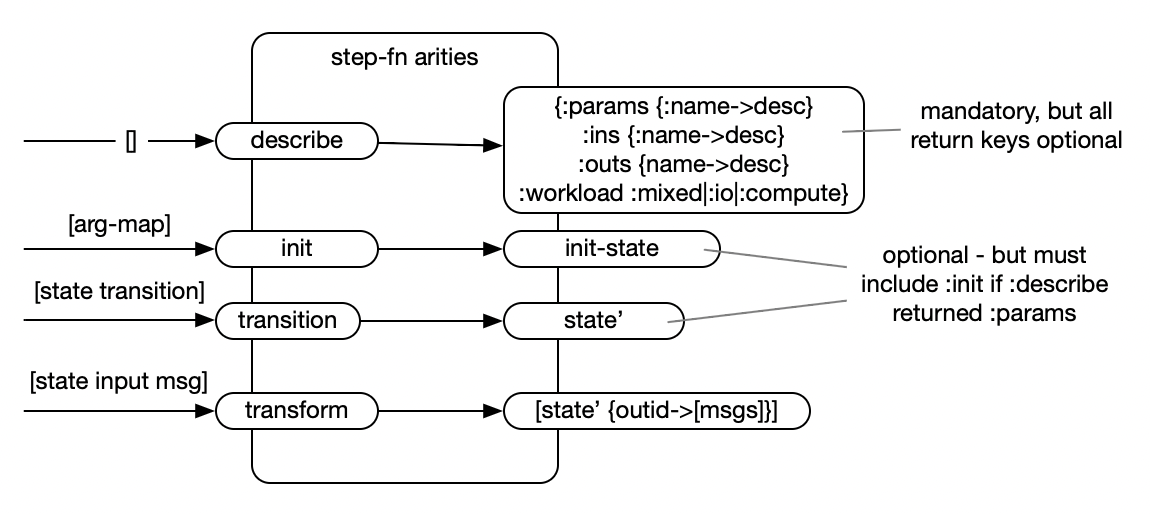
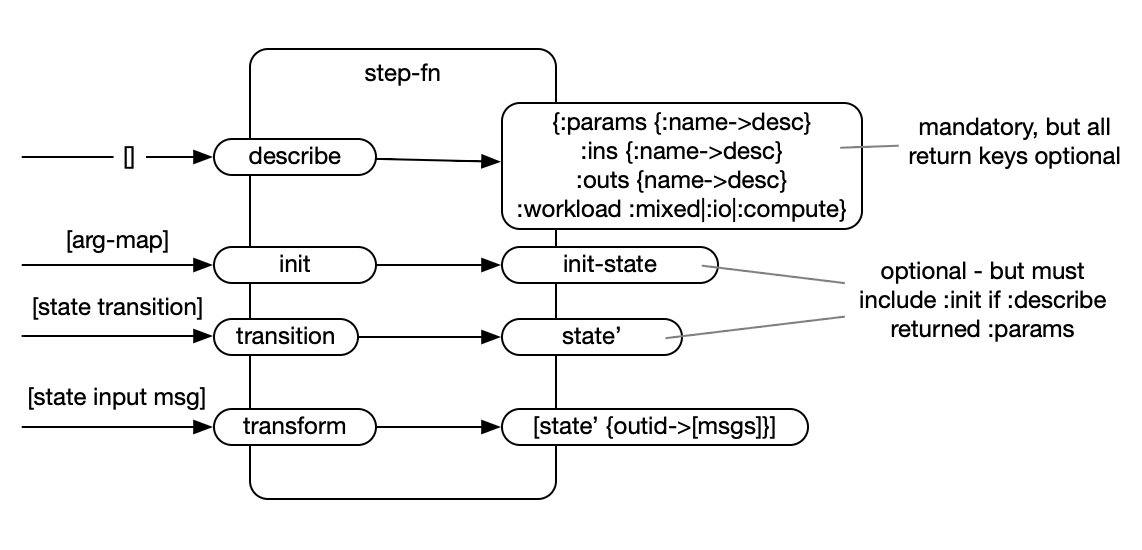
doc updates

Changed region(s): [[0.0, 0.0623, 0.9807, 0.965], [0.6743, 0.4981, 0.7356, 0.5292]]

diff --git a/doc/flow-guide.md b/doc/flow-guide.md
@@ -4,7 +4,7 @@
 
 The [flow](https://clojure.github.io/core.async/flow.html) library enables a strict separation application logic from the deployment concerns of topology, execution, communication, lifecycle, monitoring and error handling.
 
-## Step fns and processes
+## Step fns and process launchers
 
 You provide logic to flow in the form of _step-fns_, which are wrapped into running processes, executing in a loop. Flow manages the life cycle of the process and handles incoming and outgoing messages by putting or taking them on channels. Step-fns do not access channels directly or hold state, making them easy to test in isolation and reuse.
 
@@ -12,7 +12,7 @@ Step functions have four arities:
 
 <a href="https://github.com/clojure/core.async/blob/master/doc/img/step-fn-arities.png?raw=true"><img src="https://github.com/clojure/core.async/blob/master/doc/img/step-fn-arities.png?raw=true" alt="step-fn arities" width="700"/></a>
 
-### describe (0 arity)
+### describe:  (step-fn) -> descriptor
 
 The describe arity must return a static description of the step-fn's :params, :ins, and :outs. Each of these is a map of name (a keyword) to docstring.
 
@@ -26,9 +26,21 @@ For example, the describe arity might return this description for a simple step-
 
 The names used for input and output channels should be distinct (no overlap).
 
-### init (1 arity)
+### init: (step-fn arg-map) -> init-state
 
 The init arity is called once by the process to takes a set of args from the flow def (corresponding to the params returned from the describe arity) and returns the init state of the process.
+
+### transition: (step-fn state transition) -> state'
+
+The transition arity is called any time the flow or process undergoes a lifecycle transition (::flow/start, ::flow/stop, ::flow/pause, ::flow/resume). The description arity takes the current state and returns an updated state to be used for subsequent calls.
+
+The step-fn should use the transition arity to coordinate the creation, pausing, and shutdown of external resources in a process.
+
+### transform: (step-fn state input msg) -> [state' {out-id [msgs]}]
+
+The transform arity is called in a loop by the process for every message received on an input channel and returns a new state and a map of output cids to messages to return. The process will take care of sending these messages to the output channels. Output can be sent to none, any or all of the :outsenumerated, and/or an input named by a [pid inid] tuple (e.g. for reply-to), and/or to the ::flow/report output. A step need not output at all (output or msgs can be empyt/nil), however an output _message_ may never be nil (per core.async channels).
+
+The step-fn may throw excepitons from any arity and they will be handled by flow. Exceptions thrown from the transition or transform arities, the exception will be logged on the flow's :error-chan.
 
 ### Process state
 
@@ -40,34 +52,22 @@ The process state is a map. It can contain any keys needed by the step-fn transi
 
 `::flow/input-filter`, a predicate of cid, can be returned in the state from any arity to indicate a filter on the process input channel read set. For example, a step-fn that is waiting for a response from multiple inputs might remove the channels that have already responded from the read-set until responses have been received from all.
 
-### transition (2 arity)
-
-The transition arity is called any time the flow or process undergoes a lifecycle transition (::flow/start, ::flow/stop, ::flow/pause, ::flow/resume). The description arity takes the current state and returns an updated state to be used for subsequent calls.
-
-The step-fn should use the transition arity to coordinate the creation, pausing, and shutdown of external resources in a process.
-
-### transform (3 arity)
-
-The transform arity is called in a loop by the process for every message received on an input channel and returns a new state and a map of output cids to messages to return. The process will take care of sending these messages to the output channels. Output can be sent to none, any or all of the :outsenumerated, and/or an input named by a [pid inid] tuple (e.g. for reply-to), and/or to the ::flow/report output. A step need not output at all (output or msgs can be empyt/nil), however an output _message_ may never be nil (per core.async channels).
-
-The step-fn may throw excepitons from any arity and they will be handled by flow. Exceptions thrown from the transition or transform arities, the exception will be logged on the flow's :error-chan.
-
 ### step-fn helpers
 
 Some additional helpers exist to create step-fns from other forms:
 
-* `lift*->step` - given a fn f taking one arg and returning a collection of non-nil values, creates a step-fn as needed by a process, with one input and one output (named :in and :out), and no state
+* `lift*->step` - given a fn f taking one arg and returning a collection of non-nil values, creates a step-fn as needed by a process launcher, with one input and one output (named :in and :out), and no state
 * `lift1->step` - like `lift*->step` but for functions that return a single value (when `nil`, yield no output)
 * `map->step` - given a map with keys `:describe`, `:init`, `:transition`, `:transform` corresponding to the arities above, create a step-fn.
 
-### Creating a process
+### Creating a process launcher
 
-Processes can be created using the [process](https://clojure.github.io/core.async/clojure.core.async.flow.html#var-process) function, which takes a step-fn, and an option map with keys:
+Process launchers can be created using the [process](https://clojure.github.io/core.async/clojure.core.async.flow.html#var-process) function, which takes a step-fn, and an option map with keys:
 
 * `::workload` - one of `:mixed`, `:io` or `:compute`
 * `:compute-timeout-ms` - if :workload is :compute, this timeout (default 5000 msec) will be used when getting the return from the future - see below
 
-A :workload supplied as an option to process will override any :workload returned by the :describe fn of the process. If neither are provded the default is :mixed.
+A :workload supplied as an option to `process` will override any :workload returned by the :describe fn of the process launcher. If neither are provded the default is :mixed.
 
 In the :workload context of :mixed or :io, this dictates the type of thread in which the process loop will run, _including its calls to transform_. 
 
@@ -77,17 +77,19 @@ When :compute is specified, each call to transform will be run in a separate thr
 
 When :compute is specified transform must not block!
 
+Note that process launchers are defined by the [ProcLauncher](https://clojure.github.io/core.async/clojure.core.async.flow.spi.html#var-ProcLauncher) protocol. While you will typically use `process` to create a process launcher, advanced uses may also implement the protocol directly.
+
 ### Reloading
 
 Because the step-fn is called in a loop, it is a good practice to define the step-fn in a var and use the var (`#'the-fn`) instead of the function value itself (`the-fn`). This practice supports interactive development by allowing the var to be rebound from the repl while the flow is running.
 
 ## Flow def
 
-The step-fns are how you supply code for each process in the flow. The other thing you must supply is the flow configuration that ties together the procs and the connections between them.
+The step-fns are how you supply code for each process in the flow. The other thing you must supply is the flow configuration that ties together the proc launchers and the connections between them.
 
 This flow definition is supplied to the [create-flow](https://clojure.github.io/core.async/clojure.core.async.flow.html#var-create-flow) function and consists of a map with `:procs`, `:conns`, and optionally some workflow executors.
 
-The `:procs` is a map of pid -> proc-def. The proc-def is a map with `:proc` (the process function), the `:args` (passed to the init arity of the step-fn), and the `:chan-opts` which can be used to specify channel properties.
+The `:procs` is a map of pid -> proc-def. The proc-def is a map with `:proc` (the process launcher), the `:args` (passed to the init arity of the step-fn), and the `:chan-opts` which can be used to specify channel properties.
 
 The `:conns` is a collection of `[[from-pid outid] [to-pid inid]]` tuples. Inputs and outputs support multiple connections. When an output is connected multiple times, every connection will get every message, per `core.async/mult`.
 
@@ -116,7 +118,7 @@ When a flow is created, it starts in the resumed state. The following flow funct
 * [pause-proc](https://clojure.github.io/core.async/clojure.core.async.flow.html#var-pause-proc) - Pauses a single proc
 * [resume-proc](https://clojure.github.io/core.async/clojure.core.async.flow.html#var-resume-proc) - Resumes a single proc
 
-You can also use these functions to ping the running processes are return their current state and status:
+You can also use these functions to ping the running processes and return their current state and status:
 
 * [ping](https://clojure.github.io/core.async/clojure.core.async.flow.html#var-ping) - Pings all procs and returns a map of their status
 * [ping-proc](https://clojure.github.io/core.async/clojure.core.async.flow.html#var-ping-proc) - Pings a single proce by pid and returns a map of status
